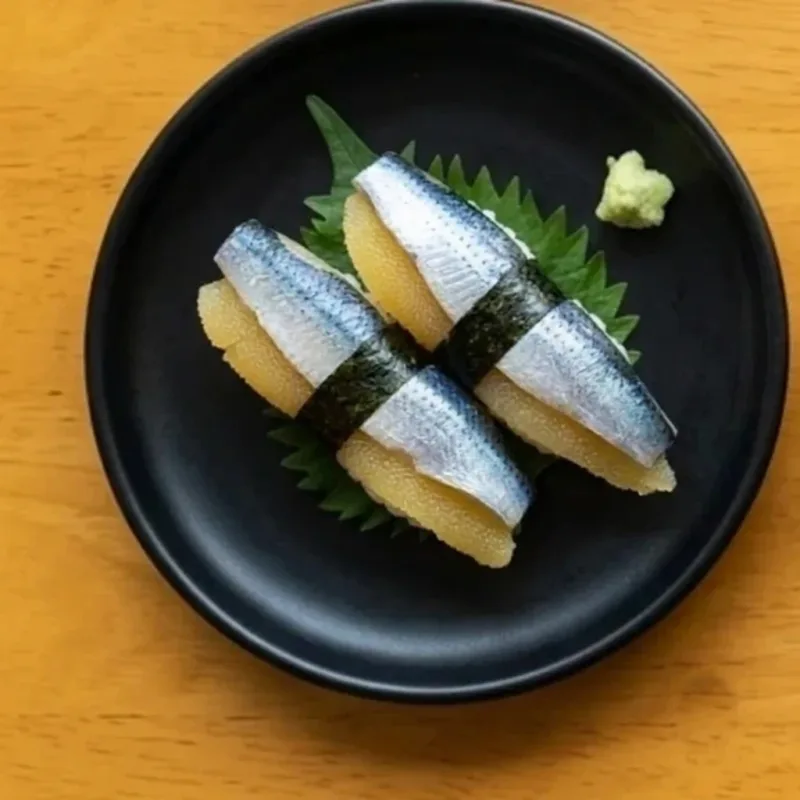
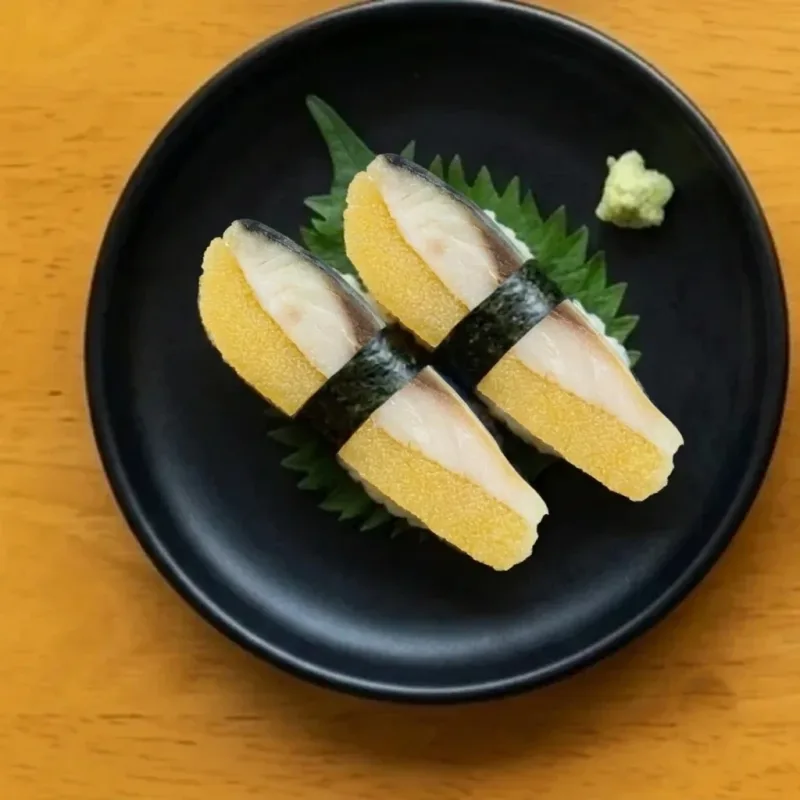
Nigiri 37: real komochi nishin look
Claude-Session: https://claude.ai/code/session_01FUVkhEtpQvfhdoqL6ZWBso

Changed region(s): [[0.25, 0.1875, 0.875, 0.7188]]

diff --git a/staff/index.html b/staff/index.html
@@ -280,7 +280,7 @@ const API = new URLSearchParams(location.search).get('api') || 'https://cafeupnh
 const VENUE = 'sushigo';
 const POLL_MS = 6000;
 /* dish names by menu number (filled from menu-data.js by tools/build_staff.py) */
-const IMGS = {"186": "d186.webp?v=a20aa473", "210": "d210.webp?v=a943506b", "187": "d187.webp?v=1badcb44", "18": "d18.webp?v=e5817ae8", "19": "d19.webp?v=9f5806cd", "20": "d20.webp?v=f94c2fe5", "21": "d21.webp?v=8108b086", "22": "d22.webp?v=3048be24", "9": "d9.webp?v=b5d30888", "10": "d10.webp?v=52efe0f9", "11": "d11.webp?v=978e4b28", "12": "d12.webp?v=68dde1f0", "13": "d13.webp?v=30b27e16", "14": "d14.webp?v=1446b738", "15": "d15.webp?v=29f66d05", "180": "d180.webp?v=0f438634", "16": "d16.webp?v=c0357a00", "17": "d17.webp?v=0f87eb02", "32": "d32.webp?v=3c840480", "33": "d33.webp?v=2506588e", "34": "d34.webp?v=9d0364af", "35": "d35.webp?v=9e72601e", "36": "d36.webp?v=89c1beae", "37": "d37.webp?v=2161cff9", "38": "d38.webp?v=ad71e8e0", "39": "d39.webp?v=8ddd849e", "40": "d40.webp?v=5f22025c", "41": "d41.webp?v=d1d522c8", "42": "d42.webp?v=b93ca088", "202": "d202.webp?v=1ab0f3d1", "43": "d43.webp?v=91d3084c", "207": "d207.webp?v=2cb9385f", "208": "d208.webp?v=769a3015", "44": "d44.webp?v=7ca1de35", "56": "d56.webp?v=965f24e4", "57": "d57.webp?v=37aee247", "59": "d59.webp?v=8bb2137d", "58": "d58.webp?v=c22aa7a1", "60": "d60.webp?v=4a3edf45", "62": "d62.webp?v=d72b8b27", "61": "d61.webp?v=063d7a2d", "181": "d181.webp?v=94984a7e", "182": "d182.webp?v=d5208821", "183": "d183.webp?v=da481454", "185": "d185.webp?v=edba128e", "184": "d184.webp?v=3b01019c", "81": "d81.webp?v=6cc40a24", "82": "d82.webp?v=ed0c97b3", "83": "d83.webp?v=598272e2", "84": "d84.webp?v=908daff8", "200": "d200.webp?v=0f75c608", "85": "d85.webp?v=315ca908", "86": "d86.webp?v=65f37c75", "87": "d87.webp?v=5f1e8d5c", "109": "dr_beer.webp?v=110c074f", "110": "dr_beer.webp?v=110c074f", "111": "dr_heineken.webp?v=cf836dae", "112": "dr_soft.webp?v=ed093acc", "113": "dr_soft.webp?v=ed093acc", "176": "dr_soft.webp?v=ed093acc", "177": "dr_soft.webp?v=ed093acc", "115": "dr_soft.webp?v=ed093acc", "116": "dr_soft.webp?v=ed093acc", "178": "dr_water.webp?v=e8fe1b27", "114": "dr_water.webp?v=e8fe1b27", "179": "dr_coco.webp?v=97f03e8b"};   /* original photo of each dish: ../img/<name>.webp */
+const IMGS = {"186": "d186.webp?v=a20aa473", "210": "d210.webp?v=a943506b", "187": "d187.webp?v=1badcb44", "18": "d18.webp?v=e5817ae8", "19": "d19.webp?v=9f5806cd", "20": "d20.webp?v=f94c2fe5", "21": "d21.webp?v=8108b086", "22": "d22.webp?v=3048be24", "9": "d9.webp?v=b5d30888", "10": "d10.webp?v=52efe0f9", "11": "d11.webp?v=978e4b28", "12": "d12.webp?v=68dde1f0", "13": "d13.webp?v=30b27e16", "14": "d14.webp?v=1446b738", "15": "d15.webp?v=29f66d05", "180": "d180.webp?v=0f438634", "16": "d16.webp?v=c0357a00", "17": "d17.webp?v=0f87eb02", "32": "d32.webp?v=3c840480", "33": "d33.webp?v=2506588e", "34": "d34.webp?v=9d0364af", "35": "d35.webp?v=9e72601e", "36": "d36.webp?v=89c1beae", "37": "d37.webp?v=839d1ea1", "38": "d38.webp?v=ad71e8e0", "39": "d39.webp?v=8ddd849e", "40": "d40.webp?v=5f22025c", "41": "d41.webp?v=d1d522c8", "42": "d42.webp?v=b93ca088", "202": "d202.webp?v=1ab0f3d1", "43": "d43.webp?v=91d3084c", "207": "d207.webp?v=2cb9385f", "208": "d208.webp?v=769a3015", "44": "d44.webp?v=7ca1de35", "56": "d56.webp?v=965f24e4", "57": "d57.webp?v=37aee247", "59": "d59.webp?v=8bb2137d", "58": "d58.webp?v=c22aa7a1", "60": "d60.webp?v=4a3edf45", "62": "d62.webp?v=d72b8b27", "61": "d61.webp?v=063d7a2d", "181": "d181.webp?v=94984a7e", "182": "d182.webp?v=d5208821", "183": "d183.webp?v=da481454", "185": "d185.webp?v=edba128e", "184": "d184.webp?v=3b01019c", "81": "d81.webp?v=6cc40a24", "82": "d82.webp?v=ed0c97b3", "83": "d83.webp?v=598272e2", "84": "d84.webp?v=908daff8", "200": "d200.webp?v=0f75c608", "85": "d85.webp?v=315ca908", "86": "d86.webp?v=65f37c75", "87": "d87.webp?v=5f1e8d5c", "109": "dr_beer.webp?v=110c074f", "110": "dr_beer.webp?v=110c074f", "111": "dr_heineken.webp?v=cf836dae", "112": "dr_soft.webp?v=ed093acc", "113": "dr_soft.webp?v=ed093acc", "176": "dr_soft.webp?v=ed093acc", "177": "dr_soft.webp?v=ed093acc", "115": "dr_soft.webp?v=ed093acc", "116": "dr_soft.webp?v=ed093acc", "178": "dr_water.webp?v=e8fe1b27", "114": "dr_water.webp?v=e8fe1b27", "179": "dr_coco.webp?v=97f03e8b"};   /* original photo of each dish: ../img/<name>.webp */
 const NAMES = {"9":["Tobiko, flying fish roe","Тобико, икра летучей рыбы","Trứng cá chuồn (Tobiko)",95000],"10":["Salmon “udon” sashimi","Сашими «удон» из лосося","Sashimi sake udon (cá hồi sợi)",199000],"11":["Tuna sashimi (maguro)","Сашими из тунца (магуро)","Sashimi cá ngừ",109000],"12":["Herring with roe sashimi (komochi nishin)","Сашими из сельди с икрой (комочи нишин)","Sashimi cá trích ép trứng",99000],"13":["Octopus sashimi (tako)","Сашими из осьминога (тако)","Sashimi bạch tuộc",95000],"14":["Salmon sashimi (sake)","Сашими из лосося (сакэ)","Sashimi cá hồi",119000],"15":["Salmon belly sashimi (sake hara)","Сашими из брюшка лосося (сакэ хара)","Sashimi bụng cá hồi",129000],"16":["Salmon carpaccio","Карпаччо из лосося","Cá hồi Carpaccio",119000],"17":["Tuna carpaccio","Карпаччо из тунца","Cá ngừ Carpaccio",99000],"18":["Sashimi set, 3 kinds","Сашими-сет, 3 вида","Set 3 loại Sashimi",165000],"19":["Salmon sashimi set","Сашими-сет из лосося","Set cá hồi Sashimi",449000],"20":["Sashimi set, 5 kinds, small (15 pcs)","Сашими-сет, 5 видов, малый (15 шт.)","Set 5 loại Sashimi nhỏ (15 miếng)",269000],"21":["Sashimi set, 6 kinds","Сашими-сет, 6 видов","Set Sashimi 6 loại",299000],"22":["Chef’s special sashimi set (30 pcs)","Сашими-сет от шефа (30 шт.)","Set Sashimi đặc biệt (30 miếng)",449000],"32":["Crab stick nigiri (kani)","Нигири с крабовой палочкой (кани)","Nigiri thanh cua",20000],"33":["Salmon nigiri (sake)","Нигири с лососем (сакэ)","Nigiri cá hồi",49000],"34":["Tuna nigiri (maguro)","Нигири с тунцом (магуро)","Nigiri cá ngừ",45000],"35":["Torched salmon nigiri with teriyaki (sake aburi)","Нигири с обожжённым лососем и терияки (сакэ абури)","Nigiri cá hồi khò teri",49000],"36":["Octopus nigiri (tako)","Нигири с осьминогом (тако)","Nigiri bạch tuộc",45000],"37":["Herring with roe nigiri (nishin)","Нигири с сельдью и икрой (нишин)","Nigiri cá trích ép trứng",45000],"38":["Salmon belly nigiri (sake hara)","Нигири с брюшком лосося (сакэ хара)","Nigiri bụng cá hồi",55000],"39":["Torched tuna nigiri with teriyaki (maguro aburi)","Нигири с обожжённым тунцом и терияки (магуро абури)","Nigiri cá ngừ khò teri",45000],"40":["Tuna nigiri with cheese","Нигири с тунцом и сыром","Nigiri cá ngừ phô mai",49000],"41":["Salmon nigiri with cheese","Нигири с лососем и сыром","Nigiri cá hồi phô mai",55000],"42":["Grilled eel nigiri (unagi)","Нигири с жареным угрём (унаги)","Nigiri lươn nướng",55000],"43":["Gunkan with flying fish roe (tobiko)","Гункан с икрой летучей рыбы (тобико)","Gunkan trứng cá chuồn",45000],"44":["Salmon gunkan with tobiko","Гункан из лосося с тобико","Gunkan cá hồi trứng cá chuồn",65000],"56":["Seafood futomaki (kaisen futo maki)","Футомаки с морепродуктами (кайсэн футо маки)","Cuộn futo hải sản sống",85000],"57":["Rainbow seafood roll","Ролл «Радуга» с морепродуктами","Cuộn hải sản cầu vồng",92000],"58":["Soft-shell crab roll with raw salmon","Ролл с крабом в мягком панцире и лососем","Cuộn cua lột phủ cá hồi sống",139000],"59":["Soft-shell crab roll with raw tuna","Ролл с крабом в мягком панцире и тунцом","Cuộn cua lột phủ cá ngừ sống",125000],"60":["Spicy tuna maki","Ролл с тунцом и острым соусом","Cuộn cá ngừ sống sốt cay",90000],"61":["Mixed seafood California roll","Ролл «Калифорния» с морепродуктами","Cuộn hải sản tổng hợp (California)",89000],"62":["Norwegian salmon roll","Ролл с норвежским лососем","Cuộn cá hồi Nauy",95000],"81":["Ebi tempura, 5 shrimp","Креветки темпура, 5 шт.","Tôm chiên tempura (5 con)",95000],"82":["Mixed tempura","Темпура ассорти","Tempura tổng hợp (2 tôm & rau củ)",76000],"83":["Tori karaage","Тори караагэ","Gà chiên kiểu Nhật",85000],"84":["Tori katsu","Тори кацу","Gà chiên xù",89000],"85":["Beef katsu","Говядина кацу","Bò Oushi chiên furai",169000],"86":["Maguro katsu","Магуро кацу","Cá ngừ chiên furai",99000],"87":["Sake katsu","Сякэ кацу (лосось)","Cá hồi chiên furai",140000],"109":["Tiger beer, can","Пиво Tiger, банка","Bia Tiger (lon)",20000],"110":["Saigon beer, can","Пиво Saigon, банка","Bia Saigon (lon)",20000],"111":["Heineken, can","Пиво Heineken, банка","Bia Heineken (lon)",24000],"112":["Coca-Cola, can","Coca-Cola, банка","Coca-Cola (lon)",15000],"113":["Pepsi, can","Pepsi, банка","Pepsi (lon)",15000],"114":["Still water, bottle","Вода без газа, бутылка","Nước suối (chai)",10000],"115":["Sprite, can","Sprite, банка","Sprite (lon)",15000],"116":["Revive salted lemon","Revive с солёным лимоном","Revive chanh muối",15000],"176":["Pepsi Zero, can","Pepsi Zero, банка","Pepsi Zero (lon)",18000],"177":["Pepsi No Sugar Lemon, can","Pepsi без сахара со вкусом лимона, банка","Pepsi không đường vị chanh (lon)",17000],"178":["Soda water, can","Содовая, банка","Soda (lon)",20000],"179":["Coconut water, can","Кокосовая вода, банка","Nước dừa (lon)",25000],"180":["White fish sashimi","Сашими из белой рыбы","Sashimi cá trắng",119000],"181":["Hot roll with tuna & cheese","Горячий ролл с тунцом и сыром","Cuộn cá ngừ & phô mai chiên",79000],"182":["Hot roll with salmon & cheese","Горячий ролл с лососем и сыром","Cuộn cá hồi & phô mai chiên",99000],"183":["Hot roll with shrimp & cheese","Горячий ролл с креветкой и сыром","Cuộn tôm & phô mai chiên",68000],"184":["Special futomaki seafood hot roll","Фирменный горячий футомаки с морепродуктами","Cuộn hải sản đặc biệt chiên",149000],"185":["Hot roll with seafood & cheese","Горячий ролл с морепродуктами и сыром","Cuộn hải sản & phô mai chiên",99000],"186":["Sushi set C, 8 pcs","Суши-сет C, 8 шт.","Set Sushi C (8 miếng)",169000],"187":["LOVE YOU set (for sharing)","Сет LOVE YOU (на компанию)","Set LOVE YOU",399000],"200":["Soft-shell crab tempura","Краб с мягким панцирем в темпуре","Cua lột chiên tempura",149000],"202":["White fish nigiri","Нигири с белой рыбой","Nigiri cá trắng",55000],"207":["Spicy salmon gunkan","Гункан с острым лососем","Gunkan cá hồi cay",45000],"208":["Torched salmon gunkan","Гункан с обожжённым лососем","Gunkan cá hồi nướng",69000],"210":["Salmon sushi combo","Сет «Лосось комбо»","Set sushi cá hồi combo",199000]}/*NAMES*/;
 
 const L = {

diff --git a/index.html b/index.html
@@ -699,7 +699,7 @@ const ICON={
  fish:'<svg viewBox="0 0 32 32" fill="none" stroke="currentColor" stroke-width="2.2" stroke-linecap="round" stroke-linejoin="round"><path d="M6 16c4-6 10-8 16-6 3 1 5 3 7 6-2 3-4 5-7 6-6 2-12 0-16-6z"/><path d="M6 16l-3-5M6 16l-3 5"/><circle cx="23" cy="14.5" r="1.3" fill="currentColor"/></svg>',
  crab:'<svg viewBox="0 0 32 32" fill="none" stroke="currentColor" stroke-width="2.2" stroke-linecap="round"><ellipse cx="16" cy="19" rx="8" ry="6"/><path d="M8 17l-4-3M8 21l-4 2M24 17l4-3M24 21l4 2M11 13l-3-6M21 13l3-6"/></svg>'
 };
-const IMGV={"d10": "52efe0f9", "d11": "978e4b28", "d12": "68dde1f0", "d13": "30b27e16", "d14": "1446b738", "d15": "29f66d05", "d16": "c0357a00", "d17": "0f87eb02", "d18": "e5817ae8", "d180": "0f438634", "d181": "94984a7e", "d182": "d5208821", "d183": "da481454", "d184": "3b01019c", "d185": "edba128e", "d186": "a20aa473", "d187": "1badcb44", "d19": "9f5806cd", "d20": "f94c2fe5", "d200": "0f75c608", "d202": "1ab0f3d1", "d207": "2cb9385f", "d208": "769a3015", "d21": "8108b086", "d210": "a943506b", "d22": "3048be24", "d32": "3c840480", "d33": "2506588e", "d34": "9d0364af", "d35": "9e72601e", "d36": "89c1beae", "d37": "2161cff9", "d38": "ad71e8e0", "d39": "8ddd849e", "d40": "5f22025c", "d41": "d1d522c8", "d42": "b93ca088", "d43": "91d3084c", "d44": "7ca1de35", "d56": "965f24e4", "d57": "37aee247", "d58": "c22aa7a1", "d59": "8bb2137d", "d60": "4a3edf45", "d61": "063d7a2d", "d62": "d72b8b27", "d81": "6cc40a24", "d82": "ed0c97b3", "d83": "598272e2", "d84": "908daff8", "d85": "315ca908", "d86": "65f37c75", "d87": "5f1e8d5c", "d9": "b5d30888", "dr_beer": "110c074f", "dr_coco": "97f03e8b", "dr_heineken": "cf836dae", "dr_soft": "ed093acc", "dr_water": "e8fe1b27"};
+const IMGV={"d10": "52efe0f9", "d11": "978e4b28", "d12": "68dde1f0", "d13": "30b27e16", "d14": "1446b738", "d15": "29f66d05", "d16": "c0357a00", "d17": "0f87eb02", "d18": "e5817ae8", "d180": "0f438634", "d181": "94984a7e", "d182": "d5208821", "d183": "da481454", "d184": "3b01019c", "d185": "edba128e", "d186": "a20aa473", "d187": "1badcb44", "d19": "9f5806cd", "d20": "f94c2fe5", "d200": "0f75c608", "d202": "1ab0f3d1", "d207": "2cb9385f", "d208": "769a3015", "d21": "8108b086", "d210": "a943506b", "d22": "3048be24", "d32": "3c840480", "d33": "2506588e", "d34": "9d0364af", "d35": "9e72601e", "d36": "89c1beae", "d37": "839d1ea1", "d38": "ad71e8e0", "d39": "8ddd849e", "d40": "5f22025c", "d41": "d1d522c8", "d42": "b93ca088", "d43": "91d3084c", "d44": "7ca1de35", "d56": "965f24e4", "d57": "37aee247", "d58": "c22aa7a1", "d59": "8bb2137d", "d60": "4a3edf45", "d61": "063d7a2d", "d62": "d72b8b27", "d81": "6cc40a24", "d82": "ed0c97b3", "d83": "598272e2", "d84": "908daff8", "d85": "315ca908", "d86": "65f37c75", "d87": "5f1e8d5c", "d9": "b5d30888", "dr_beer": "110c074f", "dr_coco": "97f03e8b", "dr_heineken": "cf836dae", "dr_soft": "ed093acc", "dr_water": "e8fe1b27"};
 const MENU=[
   /* ---------- Sushi sets ---------- */
   {id:'186', cat:'set', vi:'Set Sushi C (8 miếng)', price:169000, img:'d186',
